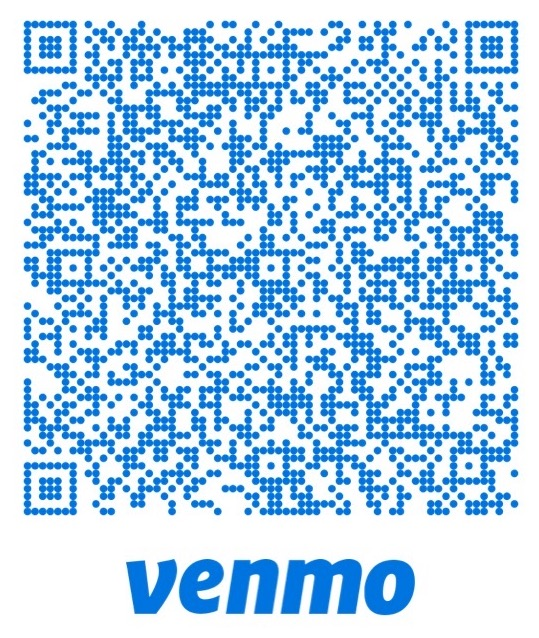
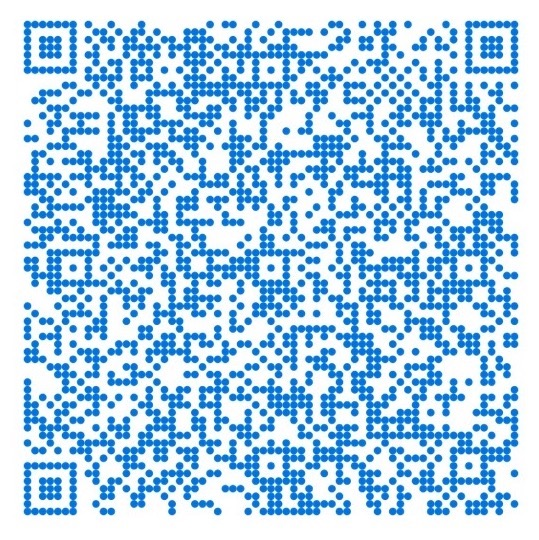
added links to paymenttitles & updated imgs

diff --git a/index.html b/index.html
@@ -89,8 +89,8 @@
     <div class="row mt-5 mb-5">
         <div class="col projectDescription text-muted mt-2 my-auto">
             <p class="description text-end">It's always been a dream of ours to keep chickens. What started as four
-            hens to keep eggs in our cupboard quickly turned in thirteen hens with a
-            dozen eggs a day! To say we love chickens might be an understatement. Our
+            hens to keep eggs in our cupboard quickly turned in eight, thirteen, nineteen... twenty-two hens with soon to be 
+            over dozen eggs a day! To say we love chickens might be an understatement. Our
             dream is to keep even more chickens and perhaps one day operate as a rescue
             for chickens and other farm fowl.</p>
         </div>
@@ -170,6 +170,9 @@
                         Our eggs have been selling like hot-cakes recently. To avoid any unnecessary trips, please reach
                         out before pickup. Feel free to email us at <a href="mailto:apicellaacres.com" class="emailLink">appicellaacres@gamil.com</a>,
                         via Chelsea Apicella on <a id="nextdoor-link" href="https://nextdoor.com">Nextdoor</a>, or by text to (919) 695-7835.
+                        <br />
+                        <br />
+                        We are located at 3200 Cheek Rd, Durham, NC 27704.
                     </p>
                 </div>
                 <div class="col-sm-4">
@@ -193,17 +196,17 @@
         </div>
         <div class="payment">
             <div class="paymentSection">
-                <h3 class="paymentTitle">PayPal</h3>
+                <a class="colorBlack" href="https://paypal.me/apicellaacres&country.x=US&locale.x=en_US" target="_blank"><h3 class="paymentTitle">PayPal</h3></a>
                 <p class="paymentTag">@apicellaacres</p>
                 <a href="https://paypal.me/apicellaacres?country.x=US&locale.x=en_US" target="_blank"><img class="paymentQR rounded mb-3" src="./images/payment/paypalQR.jpg"></a>
             </div>
             <div class="paymentSection">
-                <h3 class="paymentTitle">Venmo</h3>
+                <a class="colorBlack" href="https://account.venmo.com/u/apicellaacres" target="_blank"><h3 class="paymentTitle">Venmo</h3></a>
                 <p class="paymentTag">@apicellaacres</p>
                 <a href="https://account.venmo.com/u/apicellaacres" target="_blank"><img class="paymentQR rounded mb-3" src="./images/payment/venmoQR.jpg"></a>
             </div>
             <div class="paymentSection">
-                <h3 class="paymentTitle">Cash App</h3>
+                <a class="colorBlack" href="https://cash.app/$apicellaacres" target="_blank"><h3 class="paymentTitle">Cash App</h3></a>
                 <p class="paymentTag">$apicellaacres</p>
                 <a href="https://cash.app/$apicellaacres" target="_blank"><img class="paymentQR rounded mb-3" src="./images/payment/cashappQR.jpg"></a>
             </div>

diff --git a/styles.css b/styles.css
@@ -308,9 +308,19 @@ footer{
   font-family: 'Josefin Slab', serif;
   font-weight: bold;
 }
+
+.colorBlack{
+  color: black;
+}
+
+.colorBlack:hover{
+  color: var(--green);
+}
+
 .paymentTag{
   font-size: 18px;
 }
+
 .paymentQR{
   max-width: 300px;
 }
